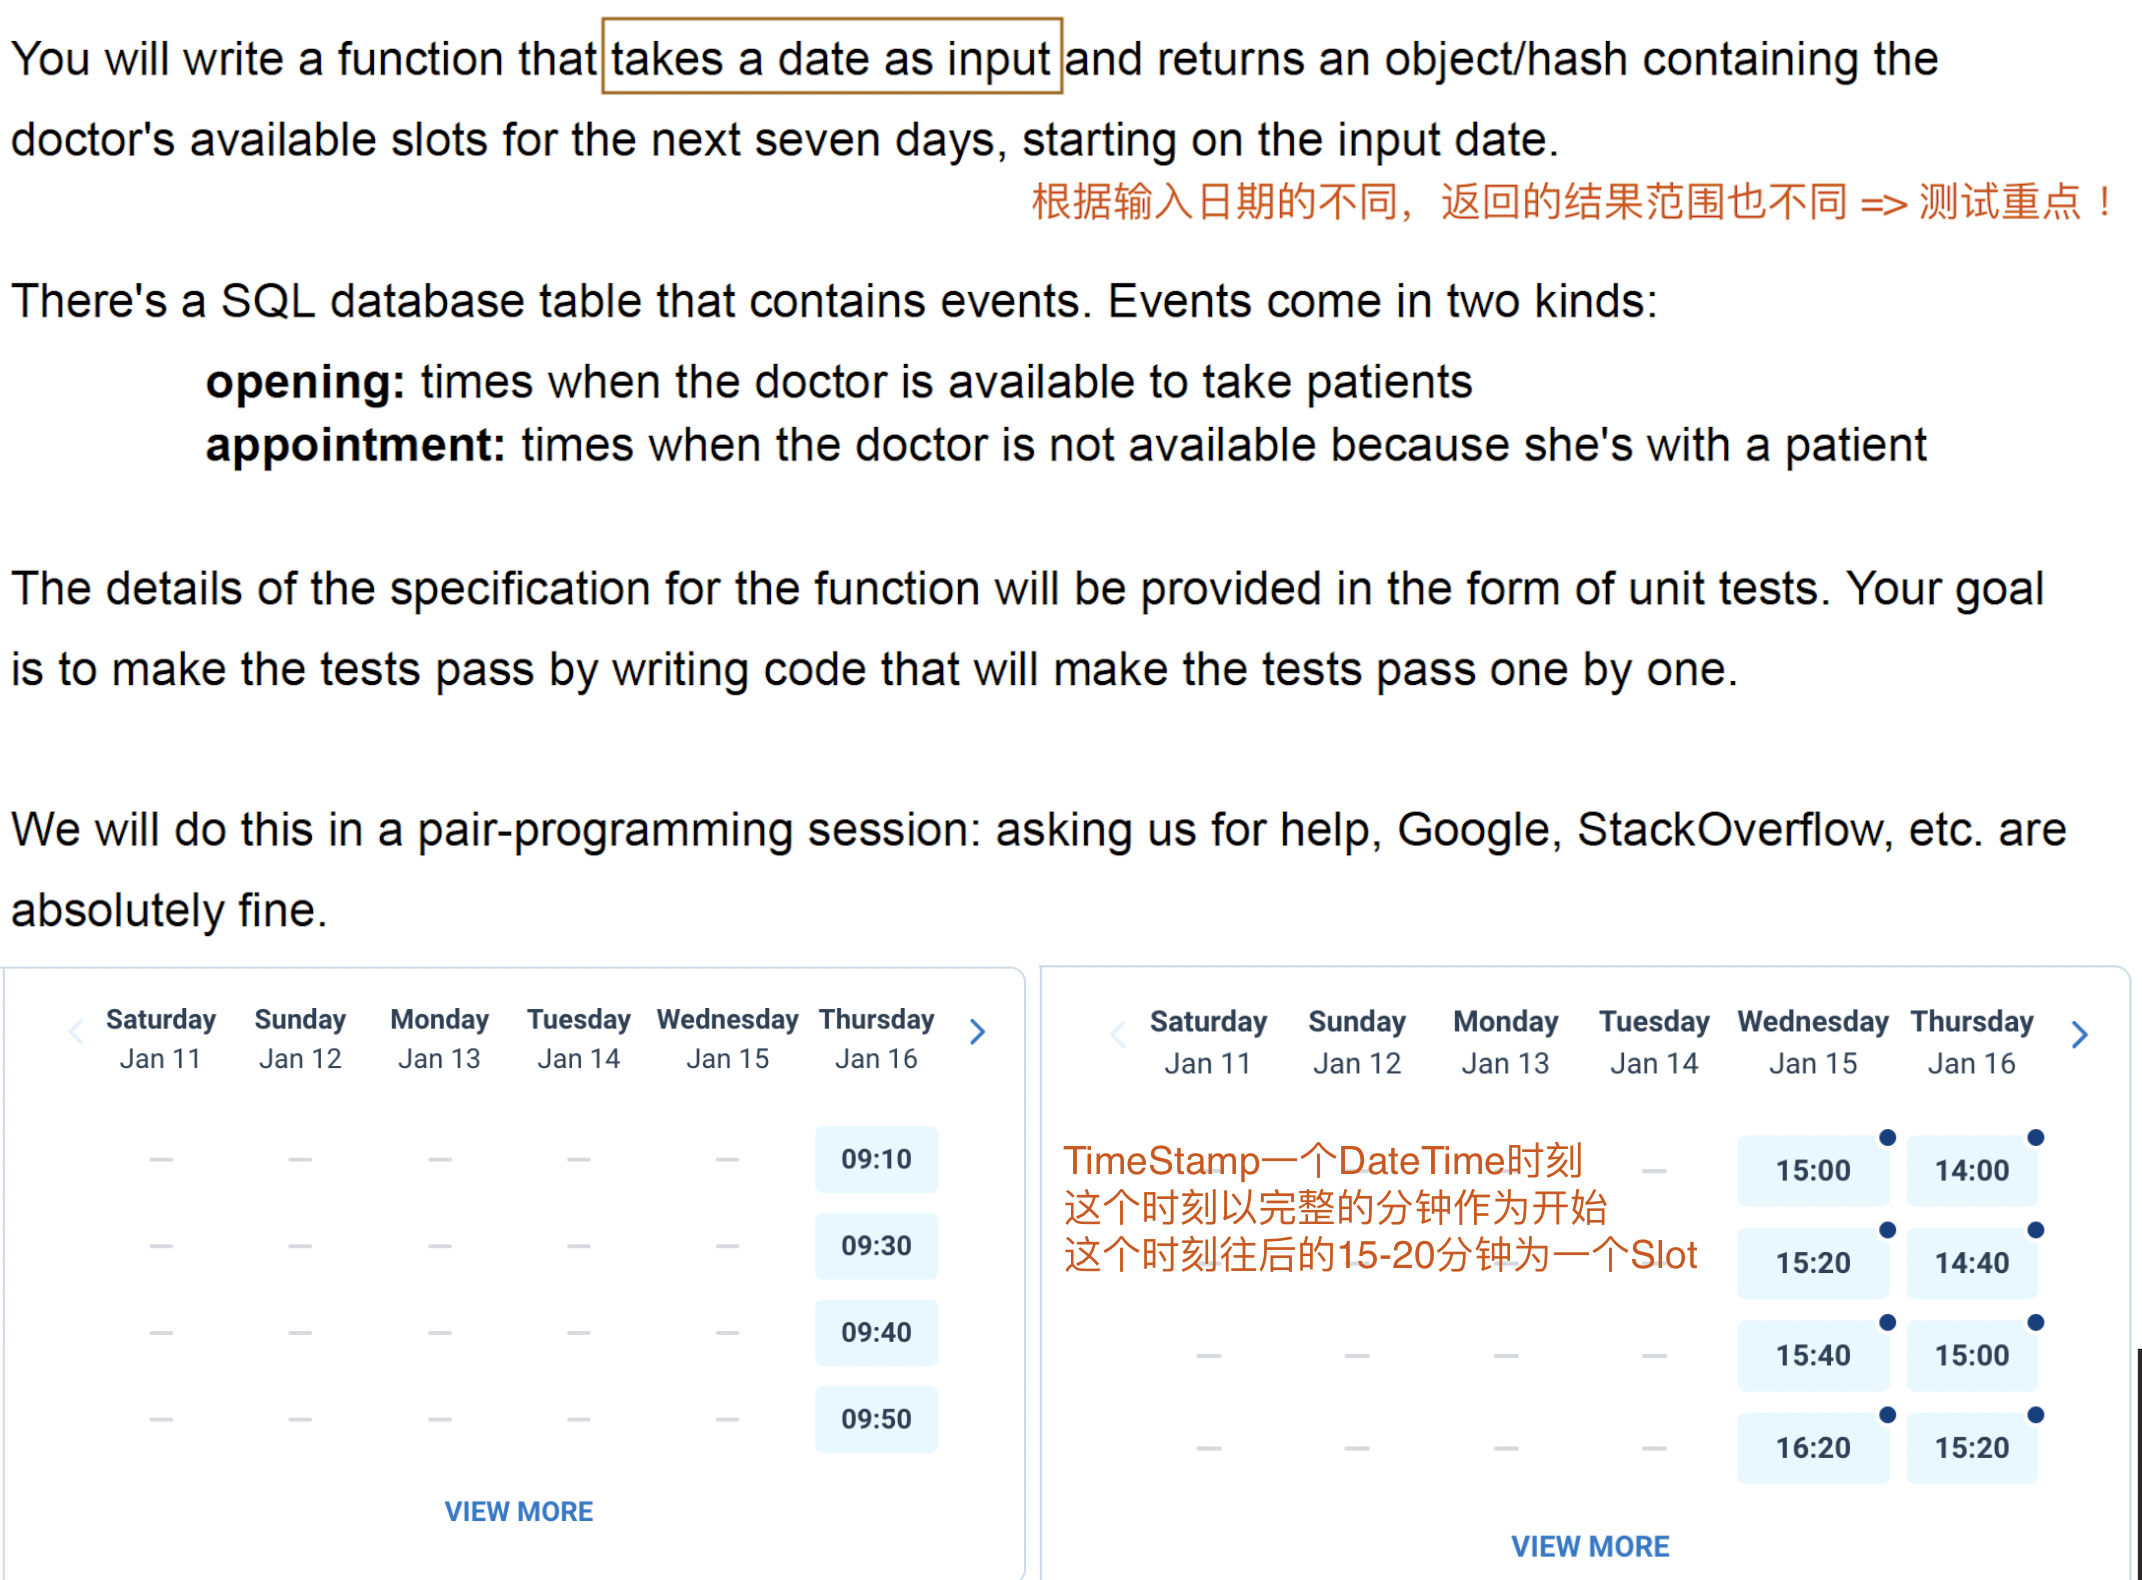
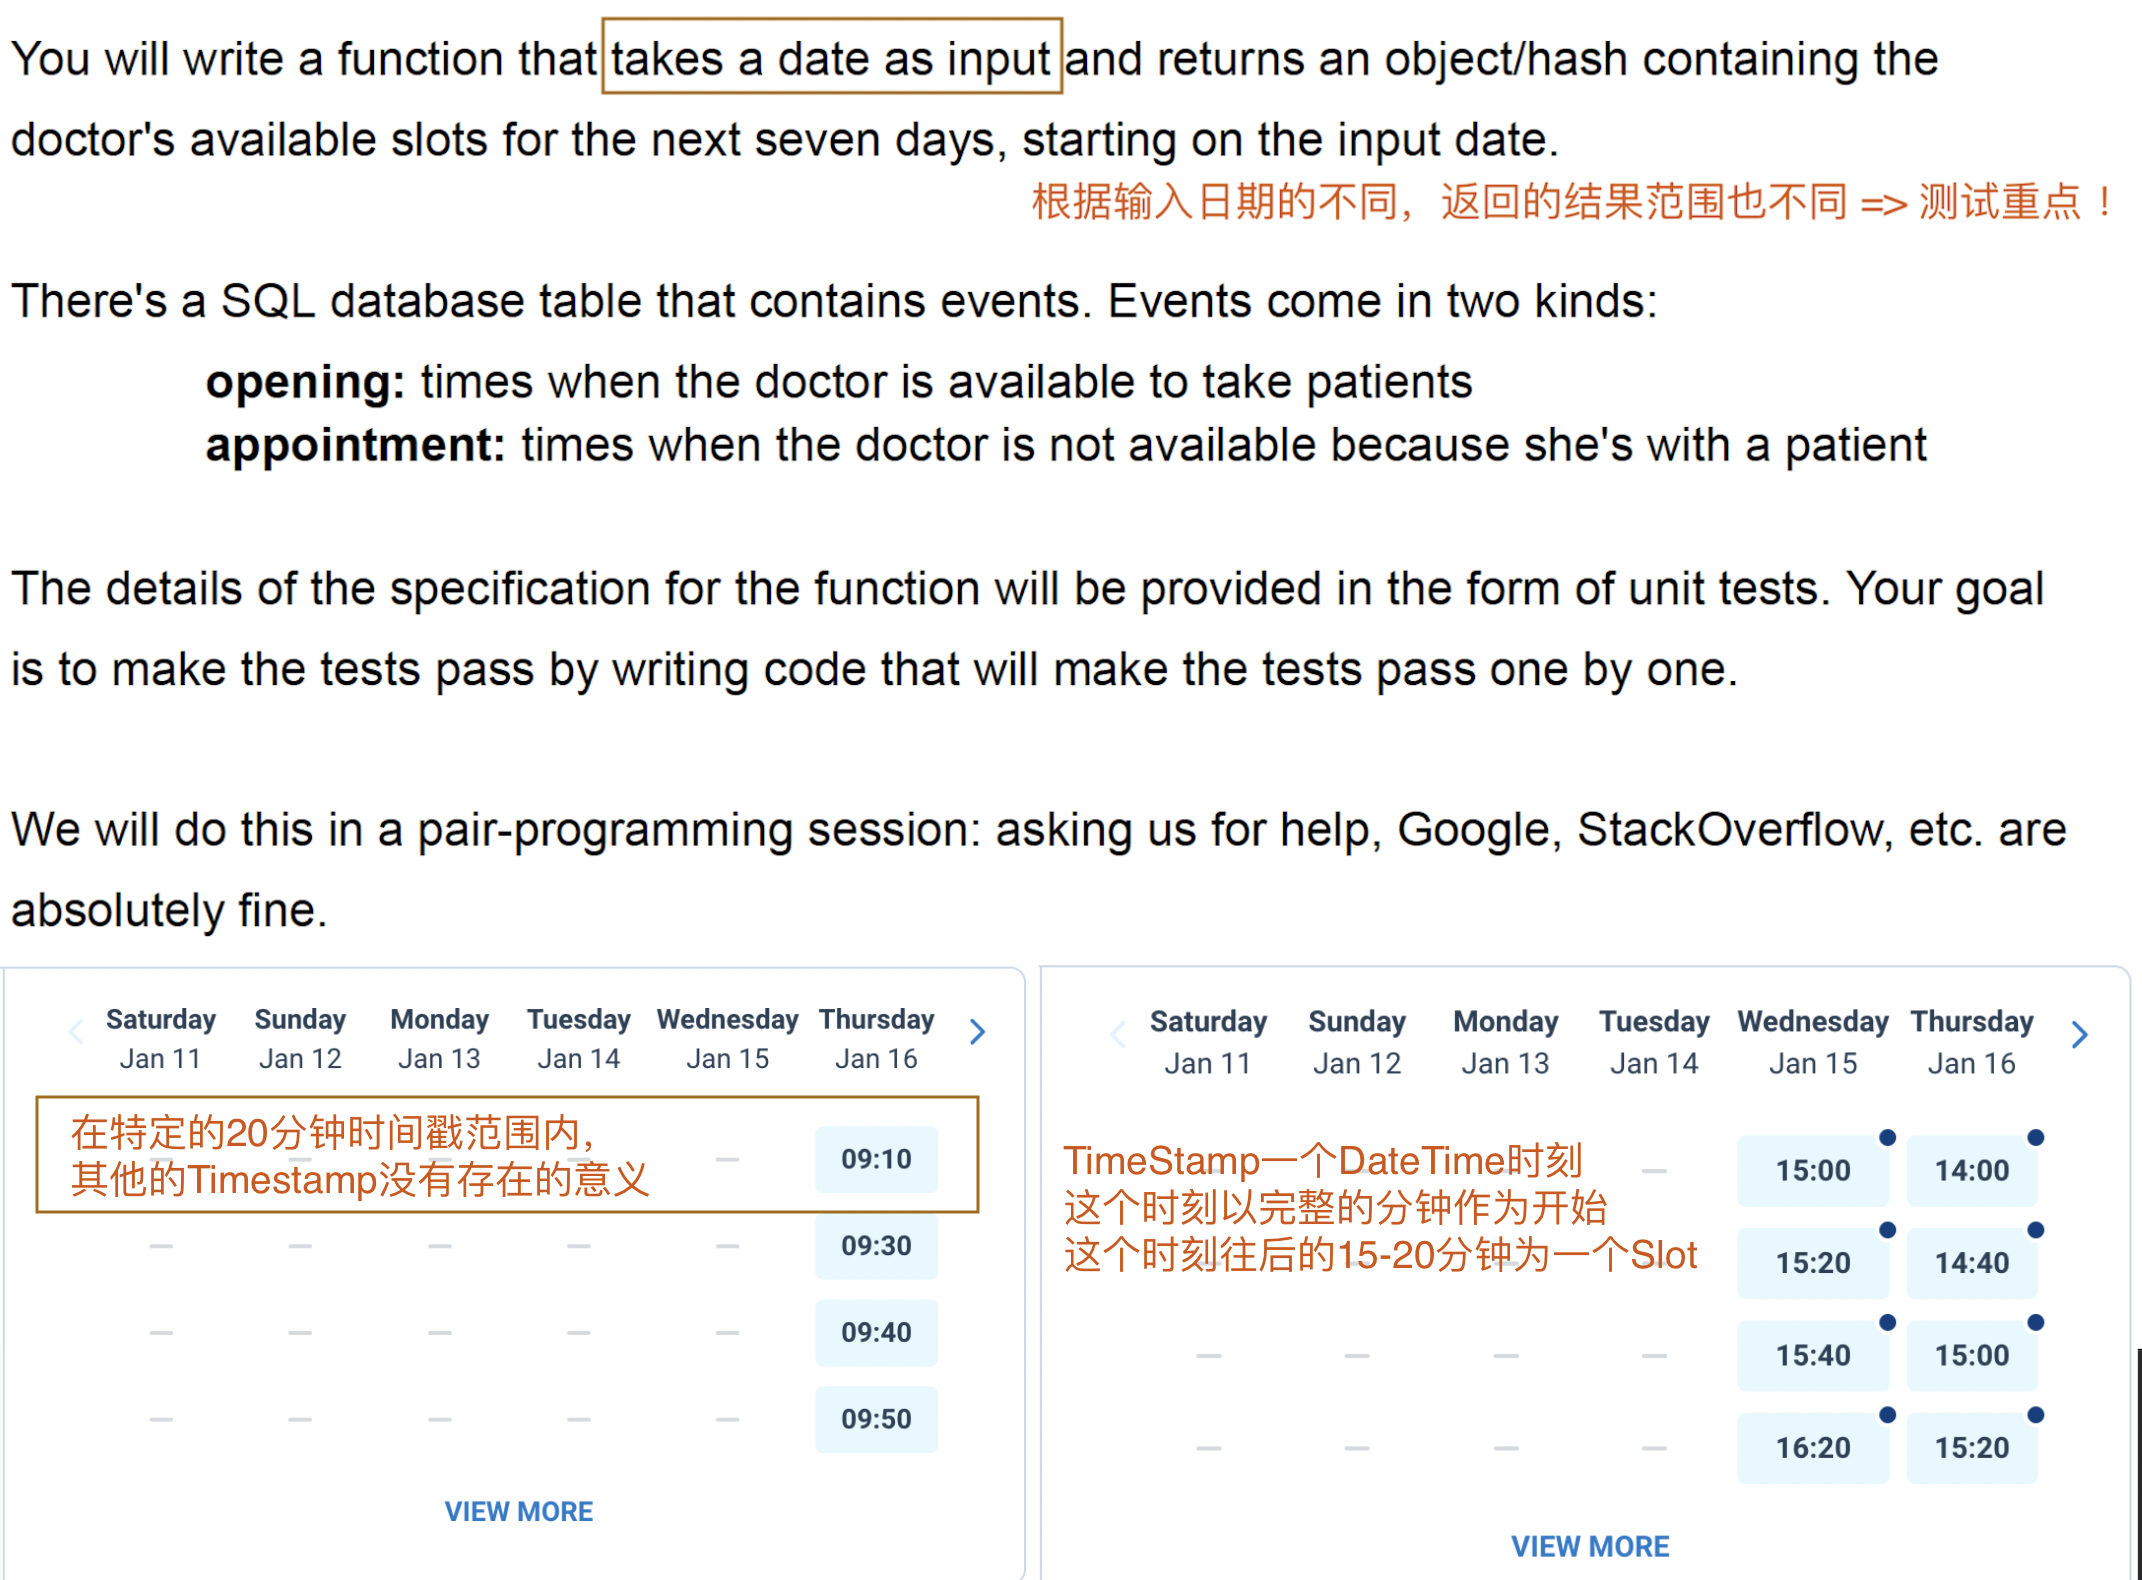
finish booking timestamp question

Changed region(s): [[0.0308, 0.6823, 0.3081, 0.7753], [0.4314, 0.7443, 0.4622, 0.7753], [0.4314, 0.6823, 0.4622, 0.7133]]

diff --git a/interview-cases/src/main/java/doctolib/BookingTimeStamp.java b/interview-cases/src/main/java/doctolib/BookingTimeStamp.java
@@ -4,57 +4,98 @@ import java.sql.*;
 import java.text.SimpleDateFormat;
 import java.time.LocalDate;
 import java.time.LocalDateTime;
-import java.util.ArrayList;
-import java.util.Collections;
-import java.util.List;
+import java.util.*;
 
-// TODO. Function关键信息: 方法的功能完全取决于测试
-//- SQL返回结果表示可预定的TimeStamp(Opening Event)
-//  - TimeStamp 数据表存储的时刻/表示一个DateTime
-//  - Slot=[TimeStamp + 15m] 定长15分钟的时间段
-//- Collections.sort()排列List<>集合数据
-//- StartDate起始日期不同，返回集合结果不同
 public class BookingTimeStamp {
 
-    public static void main(String[] args) {
-        LocalDateTime startDateTime = LocalDateTime.of(2024, 6, 10, 12, 0);
-        LocalDateTime localDateTime = LocalDateTime.of(2024, 6, 10, 12, 1);
-        // 必须是完全相同的时刻才会返回True
-        System.out.println(localDateTime.isEqual(startDateTime));
-    }
-
-    // LocalDateTime类型拥有更加丰富的API
+    // TODO. LocalDateTime类型拥有更丰富的API: 计算时间和时刻的偏移
     public List<Timestamp> processSlots(List<Timestamp> openSlots, LocalDateTime startDateTime) {
         List<Timestamp> result = new ArrayList<>();
         if (openSlots.isEmpty()) {
             return result;
         }
+        // LocalDateTime -> Timestamp
+        Timestamp timestampStart = Timestamp.valueOf(startDateTime);
+        SimpleDateFormat simpleDateFormat = new SimpleDateFormat("MM/dd/yyyy HH:mm");
+        String timestampFormatted = simpleDateFormat.format(timestampStart);
 
-        // 过滤时间戳的7天范围, 以start为起点以及之后的时间
         for (Timestamp timestamp: openSlots) {
-            LocalDateTime localDateTime = timestamp.toLocalDateTime();
-            if (localDateTime.isAfter(startDateTime) && localDateTime.isBefore(startDateTime.plusDays(7))) {
+            // 考虑时刻的判断(比较Time时刻信息，小时，分钟)
+            LocalDateTime tempDateTime = timestamp.toLocalDateTime();
+            int hour = tempDateTime.getHour();
+            int minutes = tempDateTime.getMinute();
+            tempDateTime = tempDateTime.plusHours(2);
+            tempDateTime = tempDateTime.plusMinutes(20);
+            if (tempDateTime.isAfter(startDateTime) && tempDateTime.isBefore(startDateTime.plusDays(7))) {
                 result.add(timestamp);
+            }
 
-                // 将转换后的LocalDateTime再恢复成Timestamp
-                result.add(Timestamp.valueOf(localDateTime));
+            // 考虑日期的判断(比较Date相关信息，天，月份)
+            LocalDate startDate = startDateTime.toLocalDate();
+            LocalDate tempDate = tempDateTime.toLocalDate();
+            if (tempDate.isEqual(startDate) && tempDate.isBefore(startDate.plusDays(7))) {
+                System.out.println();
             }
         }
+
+        // 对结果List进行排序，减少时间复杂度
         Collections.sort(result);
         return result;
     }
 
-    // Timestamp类型提供的API较少
-    public List<Timestamp> processSlotsPlus(List<Timestamp> openSlots, Timestamp startTimestamp) {
-        SimpleDateFormat simpleDateFormat = new SimpleDateFormat("MM/dd/yyyy HH:mm::ss");
-        String timestampFormatted = simpleDateFormat.format(startTimestamp);
+    // TODO. 解析Doctor opening slots: 分类ID + 排序时间戳 + 合并时间戳
+    // - 提供从DB表格查询出来的乱数据
+    // - 通过方法解析后，返回的结果能够之间被前端使用和显示
+    public HashMap<Long, List<Timestamp>> processSlotsPlus(List<Event> events, Timestamp startTimestamp) {
+        // TreeMap<Long, List<Timestamp>> 根据Key值自然排序
+        HashMap<Long, List<Timestamp>> result = new HashMap<>();
 
-        List<Timestamp> result = new ArrayList<>();
-        for (Timestamp timestamp: openSlots) {
-            if (timestamp.after(startTimestamp)) {
-                result.add(timestamp);
+        // 1. Filtering + Group By ID
+        for (Event event : events) {
+            long doctorId = event.doctorId;
+            Timestamp timestamp = event.timestamp;
+            LocalDateTime nextSevenDateTime = startTimestamp.toLocalDateTime().plusDays(7);
+            if (timestamp.after(startTimestamp) && timestamp.toLocalDateTime().isBefore(nextSevenDateTime)) {
+                if (result.containsKey(doctorId)) {
+                    result.get(doctorId).add(timestamp);
+                } else {
+                    List<Timestamp> timestamps = new ArrayList<>();
+                    timestamps.add(timestamp);
+                    result.put(doctorId, timestamps);
+                }
             }
         }
+
+        // 2. Sort timestamp list
+        for (Map.Entry<Long, List<Timestamp>> entry : result.entrySet()) {
+            List<Timestamp> timestamps = entry.getValue();
+            Collections.sort(timestamps);
+
+            // 3. Merge timestamp opening slot
+            List<Timestamp> timestampsUpdated = new ArrayList<>();
+            int index = 0;
+            while (index < timestamps.size()) {
+                Timestamp timestamp = timestamps.get(index);
+                timestampsUpdated.add(timestamp);
+
+                // Remove next timestamp inside [timestamp, timestamp + 20m]
+                LocalDateTime nextDateTime = timestamp.toLocalDateTime().plusMinutes(20);
+                int nextIndex = index + 1;
+                while (nextIndex < timestamps.size() && timestamps.get(nextIndex).toLocalDateTime().isBefore(nextDateTime)) {
+                    nextIndex++;
+                }
+                // Move to the next valid timestamp
+                index = nextIndex;
+            }
+
+            // Update the new entry value
+            entry.setValue(timestampsUpdated);
+        }
         return result;
+    }
+
+    static class Event {
+        long doctorId;
+        Timestamp timestamp;
     }
 }

diff --git a/interview-cases/src/main/java/doctolib/BookingTimeStampTest.java b/interview-cases/src/main/java/doctolib/BookingTimeStampTest.java
@@ -5,12 +5,16 @@ import java.time.LocalDateTime;
 import java.util.ArrayList;
 import java.util.List;
 
-// TODO. Unit Test单元测试 -> TDD 测试驱动开发
-// - 后续测试的实现需要兼容之前测试(反向思考)
-// - 测试对于不同StartDate起始日期的输出结果
-// - 测试Slot时段的添加和删除效果
-// - 测试返回结果的不同Slots时段(多个TimeStamp)
 public class BookingTimeStampTest {
+
+    public static void main(String[] args) {
+        BookingTimeStampTest timeStampTest = new BookingTimeStampTest();
+        timeStampTest.test0_empty_slots();
+        timeStampTest.test1_slot_size();
+        timeStampTest.test2_first_slot();
+        timeStampTest.test3_slot_order();
+        timeStampTest.test4_slot_with_wrong_start_date();
+    }
 
     // 模拟测试: 模拟从数据库中查询的所有Open Events时间戳
     private List<Timestamp> getOpenTimestamps() {
@@ -86,14 +90,5 @@ public class BookingTimeStampTest {
         } else {
             System.out.println("test 4 Failed");
         }
-    }
-
-    public static void main(String[] args) {
-        BookingTimeStampTest timeStampTest = new BookingTimeStampTest();
-        timeStampTest.test0_empty_slots();
-        timeStampTest.test1_slot_size();
-        timeStampTest.test2_first_slot();
-        timeStampTest.test3_slot_order();
-        timeStampTest.test4_slot_with_wrong_start_date();
     }
 }

diff --git a/data-structures/src/main/java/collections/hash_map/BaseTreeMap.java b/data-structures/src/main/java/collections/hash_map/BaseTreeMap.java
@@ -7,7 +7,6 @@ import java.util.*;
 // - 自定义比较器实现根据Key值的倒叙排序
 public class BaseTreeMap {
 
-    // TODO. TreeMap无法根据Value值来排序
     public static void main(String[] args) {
         // TODO. 默认根据Key值自然排序Entry数据
         TreeMap<Integer, Integer> treeMap0 = new TreeMap<>();
@@ -15,7 +14,7 @@ public class BaseTreeMap {
         treeMap0.put(3, 30);
         treeMap0.put(9, 90);
 
-        // TODO. 自定义根据Key键值倒叙排序
+        // TODO. 自定义根据Key键值倒叙排序，但无法根据Value值来排序 ！
         TreeMap<Integer, String> treeMap = new TreeMap<>(new Comparator<Integer>() {
             @Override
             public int compare(Integer o1, Integer o2) {

diff --git a/data-structures/src/main/java/collections/hash_map/BaseSortedMap.java b/data-structures/src/main/java/collections/hash_map/BaseSortedMap.java
@@ -12,7 +12,7 @@ public class BaseSortedMap {
         map.put(8, "item8");
         map.put(7, "item7");
 
-        // TODO. 排序后的结果为List<Entry>列表集合
+        // TODO. 返回排序结果List<Entry>列表
         List<Map.Entry<Integer, String>> listEntry = map.entrySet()
                 .stream()
                 .sorted(Map.Entry.comparingByKey())

diff --git a/interview-cases/src/main/java/doctolib/BookingTimeStampTest2.java b/interview-cases/src/main/java/doctolib/BookingTimeStampTest2.java
@@ -1,0 +1,4 @@
+package doctolib;
+
+public class BookingTimeStampTest2 {
+}
